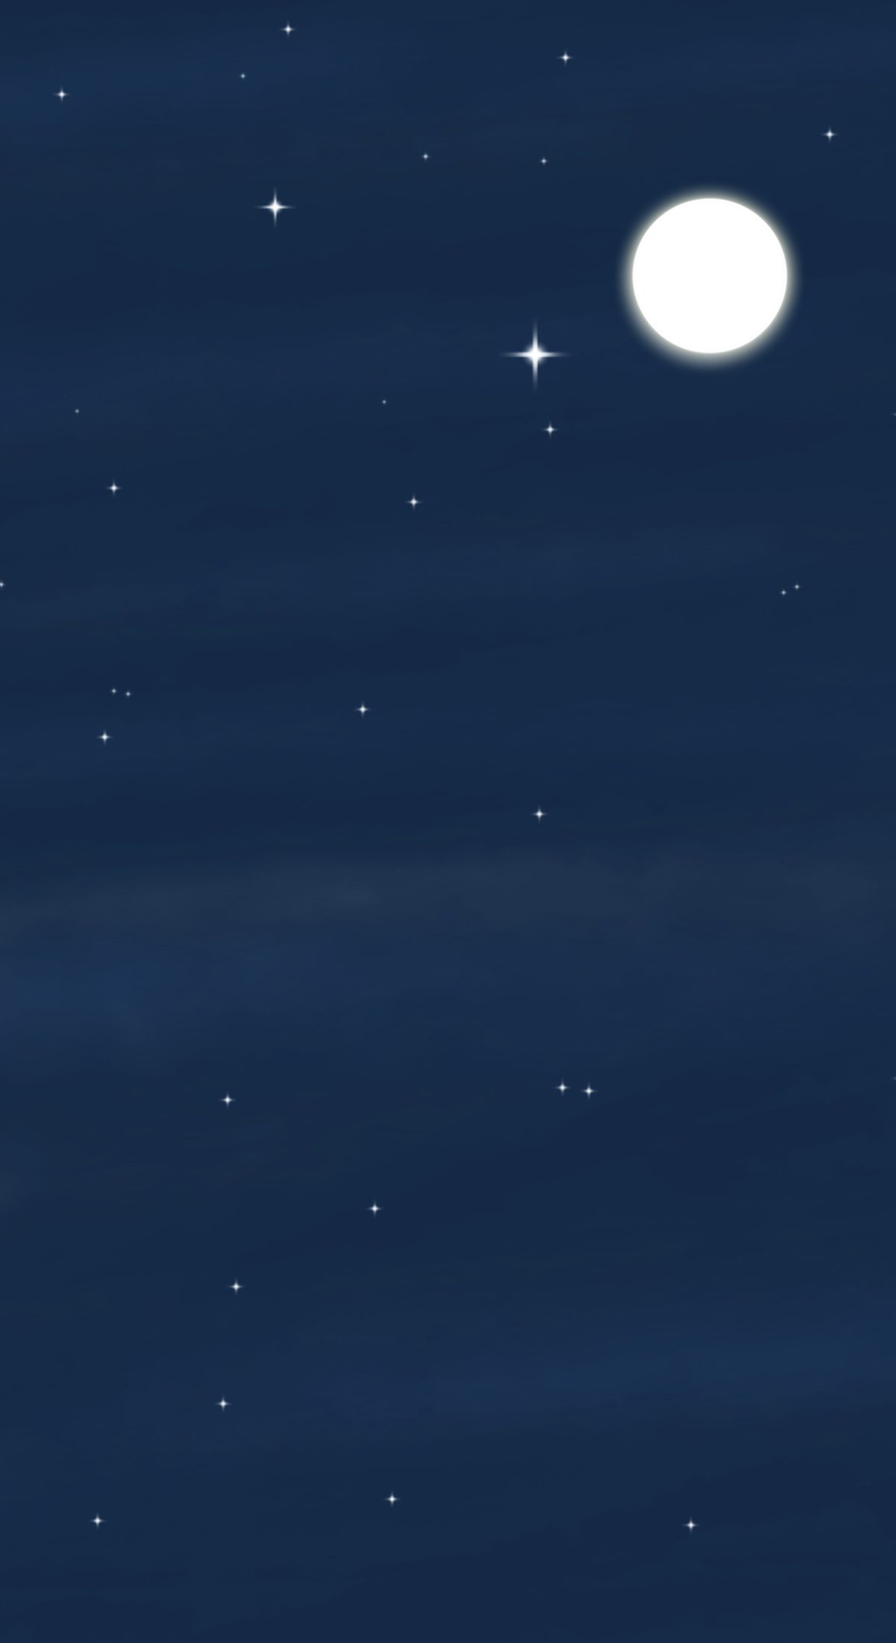
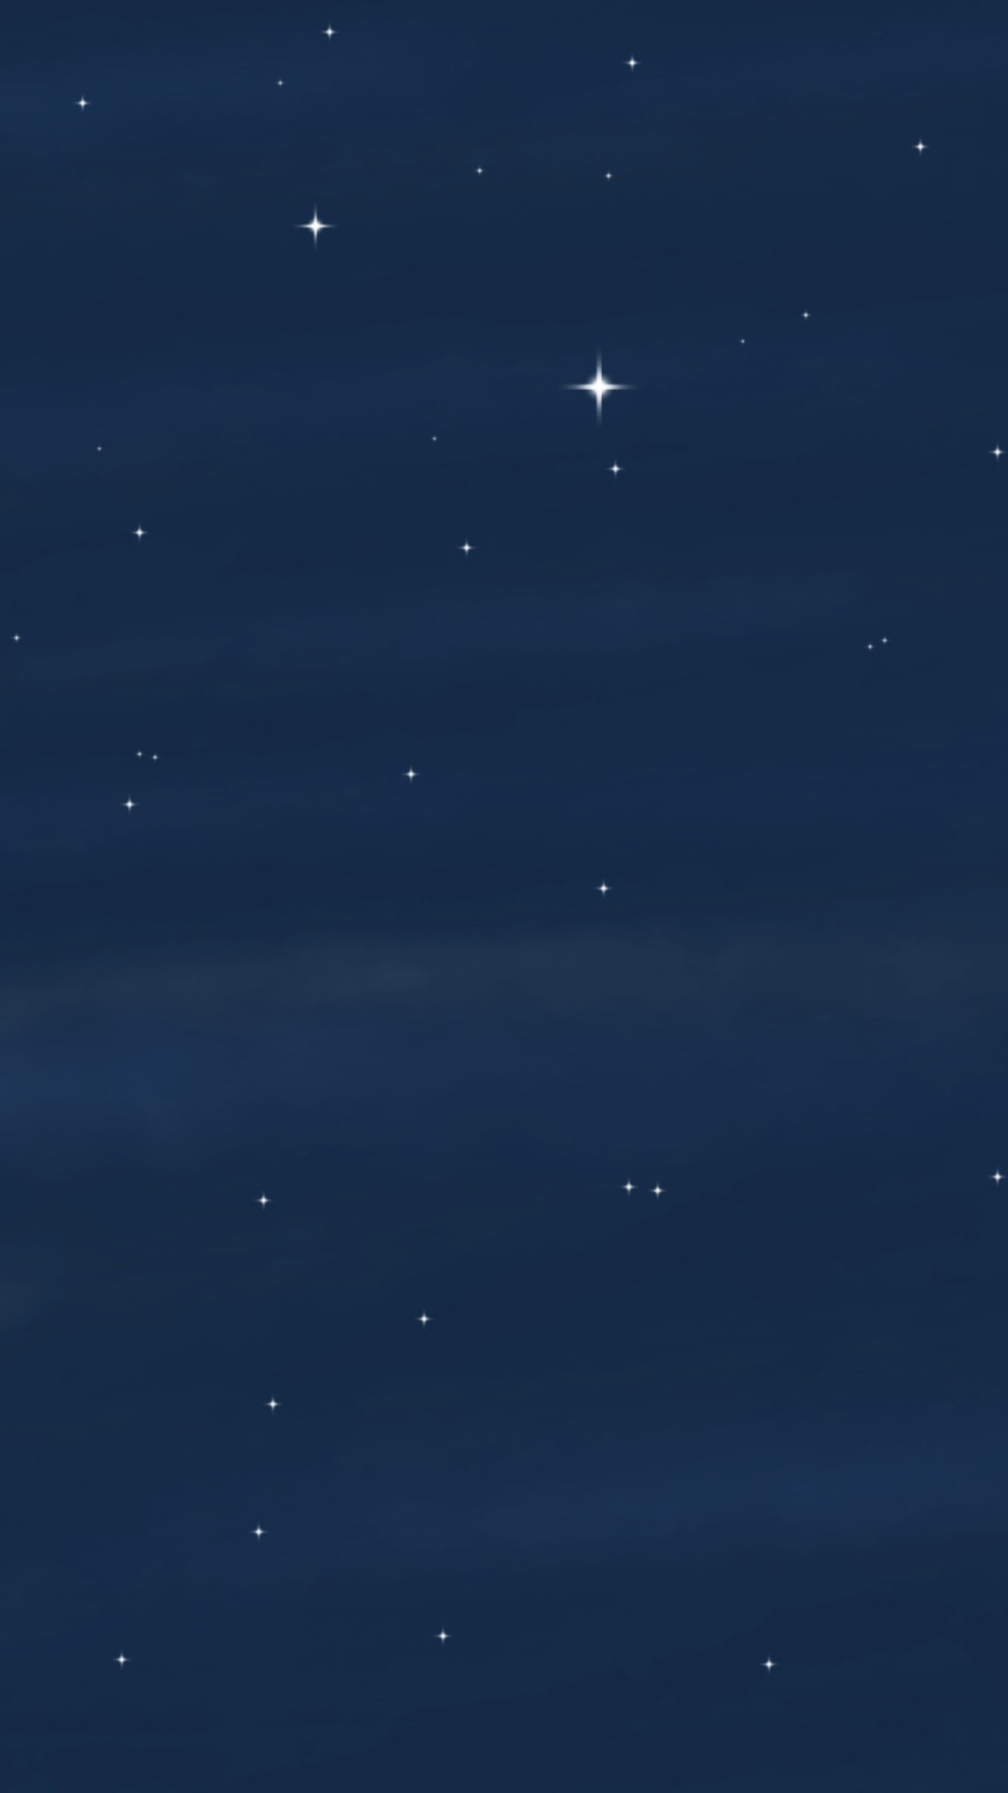
Rebuild the invite from the designer's Canva pages; November dates, new map link
Cover and the four event scenes are the designer's own page layouts, rebuilt at full resolution.
The collage scenes, block-print panels and peacock arch are gone; the photo section waits for couple.jpg.

Changed region(s): [[0.6783, 0.0927, 0.8942, 0.2473], [0.5858, 0.1855, 0.6167, 0.2473], [0.3083, 0.1236, 0.3392, 0.1545]]

diff --git a/index.html b/index.html
@@ -3,10 +3,10 @@
 <head>
   <meta charset="utf-8">
   <meta name="viewport" content="width=device-width, initial-scale=1, viewport-fit=cover">
-  <title>Harini &amp; Suraj · 26–27 February 2027</title>
-  <meta name="description" content="You’re invited to the wedding of Harini and Suraj at Le Roma Samsara, Bengaluru, on 26 &amp; 27 February 2027.">
+  <title>Harini &amp; Suraj · 26–27 November 2027</title>
+  <meta name="description" content="You’re invited to the wedding of Harini and Suraj at Le Roma Samsara, Bengaluru, on 26 &amp; 27 November 2027.">
   <meta property="og:title" content="Harini weds Suraj">
-  <meta property="og:description" content="26 · 27 February 2027 · Le Roma Samsara, Bengaluru">
+  <meta property="og:description" content="26 · 27 November 2027 · Le Roma Samsara, Bengaluru">
   <meta property="og:image" content="https://mallareddisuraj-jpg.github.io/Shaadi/assets/share.jpg">
   <meta name="theme-color" content="#2b4e80">
   <link rel="preconnect" href="https://fonts.googleapis.com">
@@ -43,28 +43,15 @@
   <main>
     <!-- 01 · Sky cover -->
     <section class="scene scene--sky">
-      <div class="art art--sky" data-speed="0.6" aria-hidden="true"></div>
-      <div class="lanterns" data-count="12" aria-hidden="true"></div>
+      <div class="art art--cover" aria-hidden="true"></div>
+      <div class="lanterns" data-count="10" aria-hidden="true"></div>
       <div class="sky__title">
         <h1 class="display reveal">Harini</h1>
         <p class="weds reveal">W E D S</p>
         <h1 class="display reveal">Suraj</h1>
-        <p class="eyebrow reveal">26 · 27 February 2027</p>
+        <p class="eyebrow reveal">26 · 27 November 2027</p>
       </div>
-      <div class="art art--dome" data-speed="1.15" aria-hidden="true"></div>
       <p class="scroll-cue eyebrow">Scroll</p>
-    </section>
-
-    <!-- 02 · Palace facade -->
-    <section class="scene scene--palace">
-      <div class="art art--palace" data-speed="0.85" aria-hidden="true"></div>
-      <div class="lanterns" data-count="10" aria-hidden="true"></div>
-    </section>
-
-    <!-- 03 · Courtyard -->
-    <section class="scene scene--courtyard">
-      <div class="art art--courtyard" data-speed="0.9" aria-hidden="true"></div>
-      <div class="lanterns" data-count="7" aria-hidden="true"></div>
     </section>
 
     <!-- 04 · Invitation card -->
@@ -85,77 +72,64 @@
     </section>
 
     <!-- 05 · Couple photo -->
-    <section class="photo">
+    <section class="photo" id="photo" hidden>
       <div class="art art--rose" aria-hidden="true"></div>
       <figure class="carved reveal">
-        <div class="art art--couple" role="img" aria-label="Harini and Suraj"></div>
-        <div class="art art--frame" aria-hidden="true"></div>
+        <img class="couple" src="assets/couple.jpg" alt="Harini and Suraj">
       </figure>
     </section>
 
-    <!-- 06 · Celebrations: one panel per event, block-print pattern + linen cartouche -->
+    <!-- 06 · Celebrations: one panel per event, the designer's framed scene with the details beneath -->
     <section class="events-intro">
-      <div class="art art--damask" aria-hidden="true"></div>
+      <div class="art art--paper" aria-hidden="true"></div>
       <header class="events__head reveal">
         <p class="eyebrow">Two days of celebration</p>
         <h2 class="heading">The Celebrations</h2>
       </header>
     </section>
     <section class="event event--welcome">
-      <div class="art art--pattern-trellis" data-speed="0.9" aria-hidden="true"></div>
-      <div class="cartouche reveal">
-        <svg class="cartouche__shape" viewBox="0 0 300 420" aria-hidden="true"><path d="M150 4C170 26 200 36 232 38C246 39 252 48 252 60C266 62 276 72 276 86L276 180C276 194 286 202 296 210C286 218 276 226 276 240L276 334C276 348 266 358 252 360C252 372 246 381 232 382C200 384 170 394 150 416C130 394 100 384 68 382C54 381 48 372 48 360C34 358 24 348 24 334L24 240C24 226 14 218 4 210C14 202 24 194 24 180L24 86C24 72 34 62 48 60C48 48 54 39 68 38C100 36 130 26 150 4Z"/><path class="cartouche__weave" d="M150 4C170 26 200 36 232 38C246 39 252 48 252 60C266 62 276 72 276 86L276 180C276 194 286 202 296 210C286 218 276 226 276 240L276 334C276 348 266 358 252 360C252 372 246 381 232 382C200 384 170 394 150 416C130 394 100 384 68 382C54 381 48 372 48 360C34 358 24 348 24 334L24 240C24 226 14 218 4 210C14 202 24 194 24 180L24 86C24 72 34 62 48 60C48 48 54 39 68 38C100 36 130 26 150 4Z"/><path class="cartouche__edge" d="M150 4C170 26 200 36 232 38C246 39 252 48 252 60C266 62 276 72 276 86L276 180C276 194 286 202 296 210C286 218 276 226 276 240L276 334C276 348 266 358 252 360C252 372 246 381 232 382C200 384 170 394 150 416C130 394 100 384 68 382C54 381 48 372 48 360C34 358 24 348 24 334L24 240C24 226 14 218 4 210C14 202 24 194 24 180L24 86C24 72 34 62 48 60C48 48 54 39 68 38C100 36 130 26 150 4Z" transform="translate(150 210) scale(.94) translate(-150 -210)"/></svg>
-        <div class="cartouche__text">
-          <p class="eyebrow">Friday · 26 February</p>
-          <h3 class="event__name">Check-in &amp; High Tea</h3>
-          <p class="eyebrow event__time">6:00 PM</p>
-        </div>
+      <figure class="event__scene reveal"><img src="assets/ev-checkin.jpg" alt="The palace lawn" loading="lazy" decoding="async"></figure>
+      <div class="event__text reveal">
+        <p class="eyebrow">Friday · 26 November</p>
+        <h3 class="event__name">Check-in &amp; High Tea</h3>
+        <p class="eyebrow event__time">6:00 PM</p>
       </div>
     </section>
     <section class="event event--dinner">
-      <div class="art art--pattern-dahlia" data-speed="0.9" aria-hidden="true"></div>
-      <div class="cartouche reveal">
-        <svg class="cartouche__shape" viewBox="0 0 300 420" aria-hidden="true"><path d="M150 4C170 26 200 36 232 38C246 39 252 48 252 60C266 62 276 72 276 86L276 180C276 194 286 202 296 210C286 218 276 226 276 240L276 334C276 348 266 358 252 360C252 372 246 381 232 382C200 384 170 394 150 416C130 394 100 384 68 382C54 381 48 372 48 360C34 358 24 348 24 334L24 240C24 226 14 218 4 210C14 202 24 194 24 180L24 86C24 72 34 62 48 60C48 48 54 39 68 38C100 36 130 26 150 4Z"/><path class="cartouche__weave" d="M150 4C170 26 200 36 232 38C246 39 252 48 252 60C266 62 276 72 276 86L276 180C276 194 286 202 296 210C286 218 276 226 276 240L276 334C276 348 266 358 252 360C252 372 246 381 232 382C200 384 170 394 150 416C130 394 100 384 68 382C54 381 48 372 48 360C34 358 24 348 24 334L24 240C24 226 14 218 4 210C14 202 24 194 24 180L24 86C24 72 34 62 48 60C48 48 54 39 68 38C100 36 130 26 150 4Z"/><path class="cartouche__edge" d="M150 4C170 26 200 36 232 38C246 39 252 48 252 60C266 62 276 72 276 86L276 180C276 194 286 202 296 210C286 218 276 226 276 240L276 334C276 348 266 358 252 360C252 372 246 381 232 382C200 384 170 394 150 416C130 394 100 384 68 382C54 381 48 372 48 360C34 358 24 348 24 334L24 240C24 226 14 218 4 210C14 202 24 194 24 180L24 86C24 72 34 62 48 60C48 48 54 39 68 38C100 36 130 26 150 4Z" transform="translate(150 210) scale(.94) translate(-150 -210)"/></svg>
-        <div class="cartouche__text">
-          <p class="eyebrow">Friday · 26 February</p>
-          <h3 class="event__name">Welcome Reception</h3>
-          <p class="eyebrow event__time">7:00 PM onwards</p>
-          <p class="event__note">Followed by dinner</p>
-        </div>
+      <figure class="event__scene reveal"><img src="assets/ev-welcome.jpg" alt="The night garden" loading="lazy" decoding="async"></figure>
+      <div class="event__text reveal">
+        <p class="eyebrow">Friday · 26 November</p>
+        <h3 class="event__name">Welcome Reception</h3>
+        <p class="eyebrow event__time">7:00 PM onwards</p>
+        <p class="event__note">Followed by dinner</p>
       </div>
     </section>
     <section class="event event--haldi">
-      <div class="art art--pattern-marigold" data-speed="0.9" aria-hidden="true"></div>
-      <div class="cartouche reveal">
-        <svg class="cartouche__shape" viewBox="0 0 300 420" aria-hidden="true"><path d="M150 4C170 26 200 36 232 38C246 39 252 48 252 60C266 62 276 72 276 86L276 180C276 194 286 202 296 210C286 218 276 226 276 240L276 334C276 348 266 358 252 360C252 372 246 381 232 382C200 384 170 394 150 416C130 394 100 384 68 382C54 381 48 372 48 360C34 358 24 348 24 334L24 240C24 226 14 218 4 210C14 202 24 194 24 180L24 86C24 72 34 62 48 60C48 48 54 39 68 38C100 36 130 26 150 4Z"/><path class="cartouche__weave" d="M150 4C170 26 200 36 232 38C246 39 252 48 252 60C266 62 276 72 276 86L276 180C276 194 286 202 296 210C286 218 276 226 276 240L276 334C276 348 266 358 252 360C252 372 246 381 232 382C200 384 170 394 150 416C130 394 100 384 68 382C54 381 48 372 48 360C34 358 24 348 24 334L24 240C24 226 14 218 4 210C14 202 24 194 24 180L24 86C24 72 34 62 48 60C48 48 54 39 68 38C100 36 130 26 150 4Z"/><path class="cartouche__edge" d="M150 4C170 26 200 36 232 38C246 39 252 48 252 60C266 62 276 72 276 86L276 180C276 194 286 202 296 210C286 218 276 226 276 240L276 334C276 348 266 358 252 360C252 372 246 381 232 382C200 384 170 394 150 416C130 394 100 384 68 382C54 381 48 372 48 360C34 358 24 348 24 334L24 240C24 226 14 218 4 210C14 202 24 194 24 180L24 86C24 72 34 62 48 60C48 48 54 39 68 38C100 36 130 26 150 4Z" transform="translate(150 210) scale(.94) translate(-150 -210)"/></svg>
-        <div class="cartouche__text">
-          <p class="eyebrow">Saturday · 27 February</p>
-          <h3 class="event__name">Haldi</h3>
-          <p class="eyebrow event__time">10:00 AM</p>
-          <p class="event__note">Followed by lunch</p>
-        </div>
+      <figure class="event__scene reveal"><img src="assets/ev-haldi.jpg" alt="The courtyard" loading="lazy" decoding="async"></figure>
+      <div class="event__text reveal">
+        <p class="eyebrow">Saturday · 27 November</p>
+        <h3 class="event__name">Haldi</h3>
+        <p class="eyebrow event__time">10:00 AM</p>
+        <p class="event__note">Followed by lunch</p>
       </div>
     </section>
     <section class="event event--wedding">
-      <div class="art art--pattern-lotus" data-speed="0.9" aria-hidden="true"></div>
-      <div class="cartouche reveal">
-        <svg class="cartouche__shape" viewBox="0 0 300 420" aria-hidden="true"><path d="M150 4C170 26 200 36 232 38C246 39 252 48 252 60C266 62 276 72 276 86L276 180C276 194 286 202 296 210C286 218 276 226 276 240L276 334C276 348 266 358 252 360C252 372 246 381 232 382C200 384 170 394 150 416C130 394 100 384 68 382C54 381 48 372 48 360C34 358 24 348 24 334L24 240C24 226 14 218 4 210C14 202 24 194 24 180L24 86C24 72 34 62 48 60C48 48 54 39 68 38C100 36 130 26 150 4Z"/><path class="cartouche__weave" d="M150 4C170 26 200 36 232 38C246 39 252 48 252 60C266 62 276 72 276 86L276 180C276 194 286 202 296 210C286 218 276 226 276 240L276 334C276 348 266 358 252 360C252 372 246 381 232 382C200 384 170 394 150 416C130 394 100 384 68 382C54 381 48 372 48 360C34 358 24 348 24 334L24 240C24 226 14 218 4 210C14 202 24 194 24 180L24 86C24 72 34 62 48 60C48 48 54 39 68 38C100 36 130 26 150 4Z"/><path class="cartouche__edge" d="M150 4C170 26 200 36 232 38C246 39 252 48 252 60C266 62 276 72 276 86L276 180C276 194 286 202 296 210C286 218 276 226 276 240L276 334C276 348 266 358 252 360C252 372 246 381 232 382C200 384 170 394 150 416C130 394 100 384 68 382C54 381 48 372 48 360C34 358 24 348 24 334L24 240C24 226 14 218 4 210C14 202 24 194 24 180L24 86C24 72 34 62 48 60C48 48 54 39 68 38C100 36 130 26 150 4Z" transform="translate(150 210) scale(.94) translate(-150 -210)"/></svg>
-        <div class="cartouche__text">
-          <p class="eyebrow">Saturday · 27 February</p>
-          <h3 class="event__name">Shubh Vivaah</h3>
-          <p class="eyebrow event__time">4:30 PM onwards</p>
-          <p class="event__note">Followed by dinner</p>
-        </div>
+      <figure class="event__scene reveal"><img src="assets/ev-wedding.jpg" alt="The lotus pavilion" loading="lazy" decoding="async"></figure>
+      <div class="event__text reveal">
+        <p class="eyebrow">Saturday · 27 November</p>
+        <h3 class="event__name">Shubh Vivaah</h3>
+        <p class="eyebrow event__time">4:30 PM onwards</p>
+        <p class="event__note">Followed by dinner</p>
       </div>
     </section>
 
     <!-- 07 · See the route -->
     <section class="route">
-      <div class="art art--damask" aria-hidden="true"></div>
+      <div class="art art--paper" aria-hidden="true"></div>
       <div class="route__inner reveal">
         <h2 class="heading">See the Route</h2>
         <p class="body">Le Roma Samsara, Mitganahalli, Chagalahatti, Bengaluru 562149</p>
-        <a class="route__btn" href="https://maps.app.goo.gl/3obsquyuHtbwUPwj8" target="_blank" rel="noopener">
+        <a class="route__btn" href="https://maps.app.goo.gl/wudnAaFtEi2vTvxU6" target="_blank" rel="noopener">
           <span class="gate__ring"><span class="gate__dot"></span></span>
           <span class="eyebrow">Tap to open the map</span>
         </a>
@@ -168,7 +142,7 @@
       <div class="closing__inner reveal">
         <p class="body">We can’t wait to celebrate with you</p>
         <p class="heading">Harini &amp; Suraj</p>
-        <p class="eyebrow">26 · 27 February 2027 · Bengaluru</p>
+        <p class="eyebrow">26 · 27 November 2027 · Bengaluru</p>
       </div>
     </section>
   </main>

diff --git a/css/style.css b/css/style.css
@@ -39,23 +39,13 @@ section { position: relative; overflow: hidden; }
   background-image: url("../assets/sky.jpg"),
     linear-gradient(180deg, #2b4e80 0%, #3d6a9c 45%, #a48ca0 80%, #f0aa78 100%);
 }
-.art--dome {
-  inset: auto 0 0 0; height: 40%;
-  background-image: url("../assets/dome.png"),
-    linear-gradient(180deg, rgba(240,190,120,0) 0%, rgba(240,190,120,.35) 100%);
-  background-size: cover, cover; background-position: center bottom;
-}
-.art--palace {
-  background-image: url("../assets/palace.jpg"),
-    linear-gradient(180deg, #f0aa78 0%, #e2964a 40%, #c4702c 100%);
-}
-.art--courtyard {
-  background-image: url("../assets/courtyard.jpg"),
-    linear-gradient(180deg, #c4702c 0%, #e0a05c 55%, var(--teal) 100%);
+/* Cover: the designer's page 2. Phones crop the sides; wide screens show the whole page on its night sky. */
+.art--cover { background: #18304a url("../assets/cover.jpg") center bottom / cover no-repeat; }
+@media (min-aspect-ratio: 3/4) {
+  .art--cover { background-image: url("../assets/cover.jpg"), url("../assets/sky.jpg"); background-size: auto 100%, cover; background-position: center bottom, center; }
 }
 .art--paper { background-image: url("../assets/teal-paper.jpg"); background-size: 600px; background-repeat: repeat; }
 .art--rose { background-image: url("../assets/rose-texture.jpg"); background-size: 600px; background-repeat: repeat; }
-.art--damask { background-image: url("../assets/damask.jpg"); background-size: 520px; background-repeat: repeat; }
 .art--ganesh {
   position: relative; inset: auto; width: 200px; height: 200px; margin: 6px auto;
   background-image: url("../assets/ganesh.png"),
@@ -97,15 +87,13 @@ section { position: relative; overflow: hidden; }
 
 /* ---------- 01 Sky ---------- */
 .scene { height: 100vh; min-height: 640px; }
-.scene--sky { display: flex; flex-direction: column; align-items: center; padding: 16vh 24px 0; text-align: center; }
+.scene--sky { display: flex; flex-direction: column; align-items: center; justify-content: center; padding: 0 24px 14vh; text-align: center; }
+.sky__title { text-shadow: 0 2px 18px rgba(8,18,40,.55); }
 .sky__title { position: relative; z-index: 3; display: grid; justify-items: center; gap: 6px; }
 .sky__title .eyebrow { margin-top: 18px; opacity: .85; }
 .scroll-cue { position: absolute; bottom: 28px; left: 0; right: 0; text-align: center; z-index: 3; opacity: .7; animation: bob 1.6s ease-in-out infinite alternate; }
 @keyframes bob { to { transform: translateY(8px); } }
 
-/* ---------- 02 / 03 ---------- */
-.scene--palace { height: 110vh; }
-.scene--courtyard { height: 90vh; }
 
 /* ---------- 04 Card ---------- */
 .card { background: var(--teal); padding: 40px 24px 120px; text-align: center; }
@@ -117,50 +105,27 @@ section { position: relative; overflow: hidden; }
 
 /* ---------- 05 Photo ---------- */
 .photo { background: var(--rose); padding: 120px 24px; display: grid; place-items: center; }
-.carved { position: relative; z-index: 1; width: min(460px, 86vw); aspect-ratio: 1142 / 1600; }
-.art--couple {
-  inset: 13% 23% 9.5% 23%;
-  background-image: url("../assets/couple.jpg"), url("../assets/arch-scene.jpg");
-}
-.art--frame {
-  background-image: url("../assets/carved-frame.png");
-  background-size: contain;
-  border: 1px dashed rgba(244,233,212,.7); border-radius: 50% 50% 8% 8% / 37% 37% 6% 6%;
-}
-.has-frame .art--frame { border: 0; }
+.carved { position: relative; z-index: 1; width: min(420px, 82vw); aspect-ratio: 3 / 4; }
+.couple { width: 100%; height: 100%; object-fit: cover; border-radius: 999px 999px 14px 14px; border: 3px solid var(--ivory); box-shadow: 0 18px 40px rgba(0,0,0,.25); display: block; }
 
 /* ---------- 06 Events ---------- */
 .events-intro { background: var(--teal); padding: 120px 24px; display: grid; place-items: center; text-align: center; }
 .events__head { position: relative; z-index: 1; display: grid; gap: 14px; }
 .events__head .eyebrow { opacity: .85; }
 
-/* Each event: full-height panel, block-print pattern behind an embossed linen cartouche.
-   Pattern files live in /assets; the flat colour shows until they're added. */
-.event { min-height: 100vh; display: grid; place-items: center; padding: 64px 24px; text-align: center; background: var(--bg); }
-.art--pattern-trellis { background-image: url("../assets/pattern-trellis.jpg"); }
-.art--pattern-dahlia  { background-image: url("../assets/pattern-dahlia.jpg"); }
-.art--pattern-marigold{ background-image: url("../assets/pattern-marigold.jpg"); }
-.art--pattern-lotus   { background-image: url("../assets/pattern-lotus.jpg"); }
-
-.event--welcome { --bg: #c9b6a3; --card: #6b2633; --ink: #f4e9d4; --cart: url("../assets/cartouche-maroon.png"); }
-.event--dinner  { --bg: #4a1a22; --card: #e8cfa8; --ink: #5a1e28; --cart: url("../assets/cartouche-beige.png"); }
-.event--haldi   { --bg: #fbf0d4; --card: #4f5a2e; --ink: #f4e9d4; --cart: url("../assets/cartouche-green.png"); }
-.event--wedding { --bg: #fbf5f1; --card: #c4566b; --ink: #f8ece4; --cart: url("../assets/cartouche-pink.png"); }
-/* Embossed linen cartouches from the Canva artwork replace the drawn SVG shape */
-.cartouche { background: var(--cart) center / 100% 100% no-repeat; filter: drop-shadow(0 14px 22px rgba(0,0,0,.3)); aspect-ratio: 864 / 1248; }
-.cartouche__shape { display: none; }
-
-.cartouche { position: relative; z-index: 1; width: min(400px, 82vw); aspect-ratio: 300 / 420; display: grid; place-items: center; }
-.cartouche__shape { position: absolute; inset: 0; width: 100%; height: 100%; overflow: visible;
-  filter: drop-shadow(0 2px 1px rgba(0,0,0,.25)) drop-shadow(0 14px 24px rgba(0,0,0,.28)); }
-.cartouche__shape path:first-child { fill: var(--card); stroke: rgba(255,255,255,.28); stroke-width: 1.5; }
-.cartouche__weave { fill: #000; filter: url(#linen); mix-blend-mode: multiply; opacity: .55; }
-.cartouche__edge { fill: none; stroke: rgba(0,0,0,.18); stroke-width: 1.2; }
-.cartouche__text { position: relative; display: grid; gap: 10px; justify-items: center; padding: 0 18%; color: var(--ink); }
-.cartouche__text .eyebrow { font-size: clamp(10px, 2.6vw, 12px); opacity: .85; }
-.event__name { font-family: var(--serif); font-style: italic; font-weight: 500; text-transform: uppercase; letter-spacing: .04em;
-  font-size: clamp(30px, 8vw, 44px); line-height: 1.02; text-wrap: balance; }
-.event__note { font-style: italic; font-size: clamp(17px, 4.4vw, 20px); }
+/* Each event: the designer's framed scene on its page colour, details beneath. */
+.event { min-height: 100vh; display: grid; place-items: center; align-content: center; gap: 26px; padding: 56px 20px 72px; text-align: center; background: var(--bg); color: var(--ink); }
+.event--welcome { --bg: #6e4684; --ink: #f4e9d4; }
+.event--dinner  { --bg: #0d223d; --ink: #f4e9d4; }
+.event--haldi   { --bg: #7c7f2e; --ink: #fbf3dc; }
+.event--wedding { --bg: #6e4684; --ink: #f4e9d4; }
+.event__scene { width: min(520px, 100%); }
+.event__scene img { display: block; width: 100%; height: auto; }
+.event__text { display: grid; gap: 10px; justify-items: center; }
+.event__text .eyebrow { font-size: clamp(11px, 2.8vw, 13px); opacity: .85; }
+.event__name { font-family: var(--serif); font-style: italic; font-weight: 500; letter-spacing: .02em;
+  font-size: clamp(36px, 9.5vw, 54px); line-height: 1.02; text-wrap: balance; }
+.event__note { font-style: italic; font-size: clamp(18px, 4.6vw, 21px); opacity: .9; }
 
 /* ---------- 07 Route ---------- */
 .route { background: var(--teal); height: 100vh; min-height: 640px; display: grid; place-items: center; padding: 0 24px; text-align: center; }
@@ -199,7 +164,6 @@ body:not(.locked) .music { opacity: 1; pointer-events: auto; }
 @media (max-width: 700px) {
   .card, .photo { padding-left: 20px; padding-right: 20px; }
   .events-intro, .photo { padding-top: 88px; padding-bottom: 88px; }
-  .scene--sky { padding-top: 14vh; }
 }
 
 @media (prefers-reduced-motion: reduce) {
@@ -208,4 +172,4 @@ body:not(.locked) .music { opacity: 1; pointer-events: auto; }
   [data-speed] { transform: none !important; }
 }
 
-.music[hidden] { display: none; }
+[hidden] { display: none !important; }

diff --git a/js/main.js b/js/main.js
@@ -56,10 +56,11 @@
   }, { threshold: 0.15 });
   document.querySelectorAll(".reveal").forEach((el) => io.observe(el));
 
-  /* ---------- Hide the dashed guide once the carved frame art exists ---------- */
+  /* ---------- Photo section shows only once assets/couple.jpg exists ---------- */
+  const photo = document.getElementById("photo");
   const probe = new Image();
-  probe.onload = () => document.querySelector(".carved")?.classList.add("has-frame");
-  probe.src = "assets/carved-frame.png";
+  probe.onload = () => { if (photo) { photo.hidden = false; photo.querySelectorAll(".reveal").forEach((el) => io.observe(el)); } };
+  probe.src = "assets/couple.jpg";
 
   /* ---------- Music: assets/music.mp3 (button hides itself if the file is missing) ---------- */
   const btn = document.getElementById("music");

diff --git a/assets/README.md b/assets/README.md
@@ -25,10 +25,9 @@ Keep JPGs under about 500 KB each so the invite opens quickly on phones.
 
 ## What is here now
 
-Built from the two Canva designs (scene motifs, and the block-print patterns with linen cartouches):
-`sky.jpg`, `dome.png`, `palace.jpg`, `courtyard.jpg`, the four `pattern-*.jpg`, the four `cartouche-*.png`
-(maroon is tinted from the beige one), `carved-frame.png` (the jharokha arch), `arch-scene.jpg` (peacocks and
-lotus shown inside the arch until `couple.jpg` is added), `teal-paper.jpg`, `rose-texture.jpg` and `damask.jpg`
-(recoloured from the Canva watercolour wash and trellis), and `share.jpg`.
+The art comes from the designer's Canva file, rebuilt piece by piece from its pages at full resolution:
+`cover.jpg` (page 2), `ev-checkin.jpg` (page 15), `ev-welcome.jpg` (page 20), `ev-haldi.jpg` (page 19),
+`ev-wedding.jpg` (page 13), `sky.jpg` (the night sky behind the opening screen) and `share.jpg`.
+`teal-paper.jpg` and `rose-texture.jpg` are recoloured from the Canva watercolour wash.
 
-Still to add: `couple.jpg`, `ganesh.png`, `music.mp3`.
+Still to add: `couple.jpg` (the photo section appears once it exists), `ganesh.png`, `music.mp3`.
